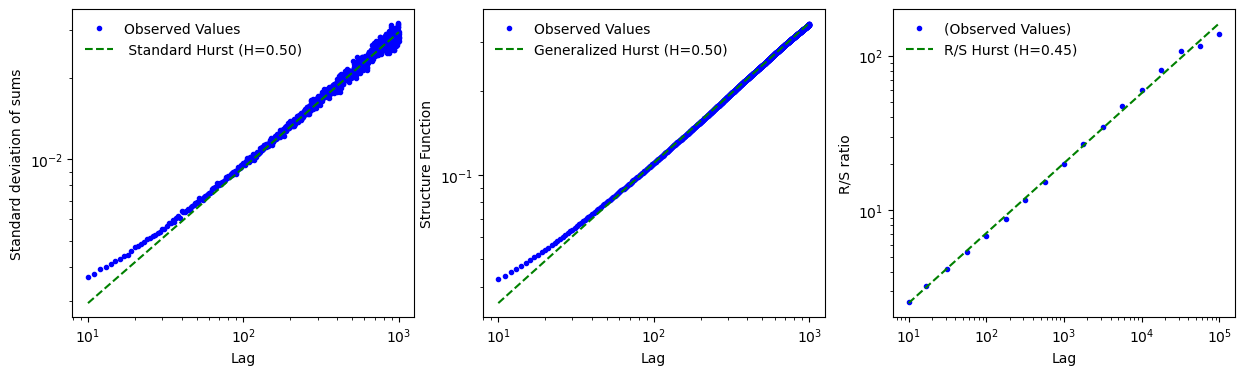
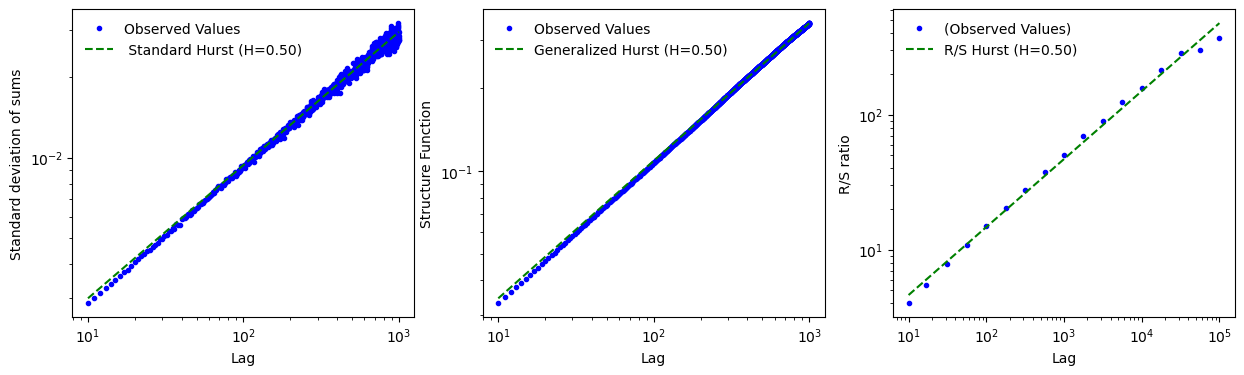
Minor improvements

diff --git a/util/utils.py b/util/utils.py
@@ -39,14 +39,14 @@ def neg_log_likelihood(params, x_values, y_values,func: Callable) -> float:
 
 def std_of_sums(ts: np.array, lag_size: int) -> float:
     """
-    Computes the standard deviation of sums of time series lags of size chunk_size.
+    Computes the standard deviation of sums of time series lags of size lag_size.
 
     Parameters
     ----------
     ts : np.array
         Time series data
     lag_size : int
-        The size of each chunk of the time series
+        The size of each lag of the time series
 
     Returns
     -------
@@ -56,7 +56,7 @@ def std_of_sums(ts: np.array, lag_size: int) -> float:
     if lag_size == 0:
         return np.nan
 
-    # Reshape the array to have a size of (-1, chunk_size) and sum along the second axis
+    # Reshape the array to have a size of (-1, lag_size) and sum along the second axis
     lags = len(ts) // lag_size
     sums = ts[:lags * lag_size].reshape(-1, lag_size).sum(axis=1)
 

diff --git a/util/generate_series.py b/util/generate_series.py
@@ -84,8 +84,8 @@ def stochastic_process(length: int = 99999, proba: float = 0.5, min_lag: int = 1
         if i < min_lag + 1:
             direction = np.sign(np.random.randn())
         else:
-            lookback = np.random.randint(min_lag, min(i-1, max_lag) + 1)
-            direction = np.sign(series[i-1] / series[i-1-lookback] - 1.) if cumprod else np.sign(series[i-1] - series[i-1-lookback])
+            lag = np.random.randint(min_lag, min(i-1, max_lag) + 1)
+            direction = np.sign(series[i-1] / series[i-1-lag] - 1.) if cumprod else np.sign(series[i-1] - series[i-1-lag])
             direction *= np.sign(proba - np.random.uniform())
 
         increment = np.abs(np.random.randn())

diff --git a/hurstexponent/hurst_exponent.py b/hurstexponent/hurst_exponent.py
@@ -211,7 +211,7 @@ if __name__ == '__main__':
 
     # Generate simple random walk series
     from util.generate_series import simple_series
-    series = simple_series(length=99999, noise_pct_std=0.00, seed=70) # avg. daily market volatility
+    series = simple_series(length=99999, noise_pct_std=0.02, seed=70) # avg. daily market volatility
 
     # Genereate stochastic process with specific long-range properties
     # from util.generate_series import stochastic_process
